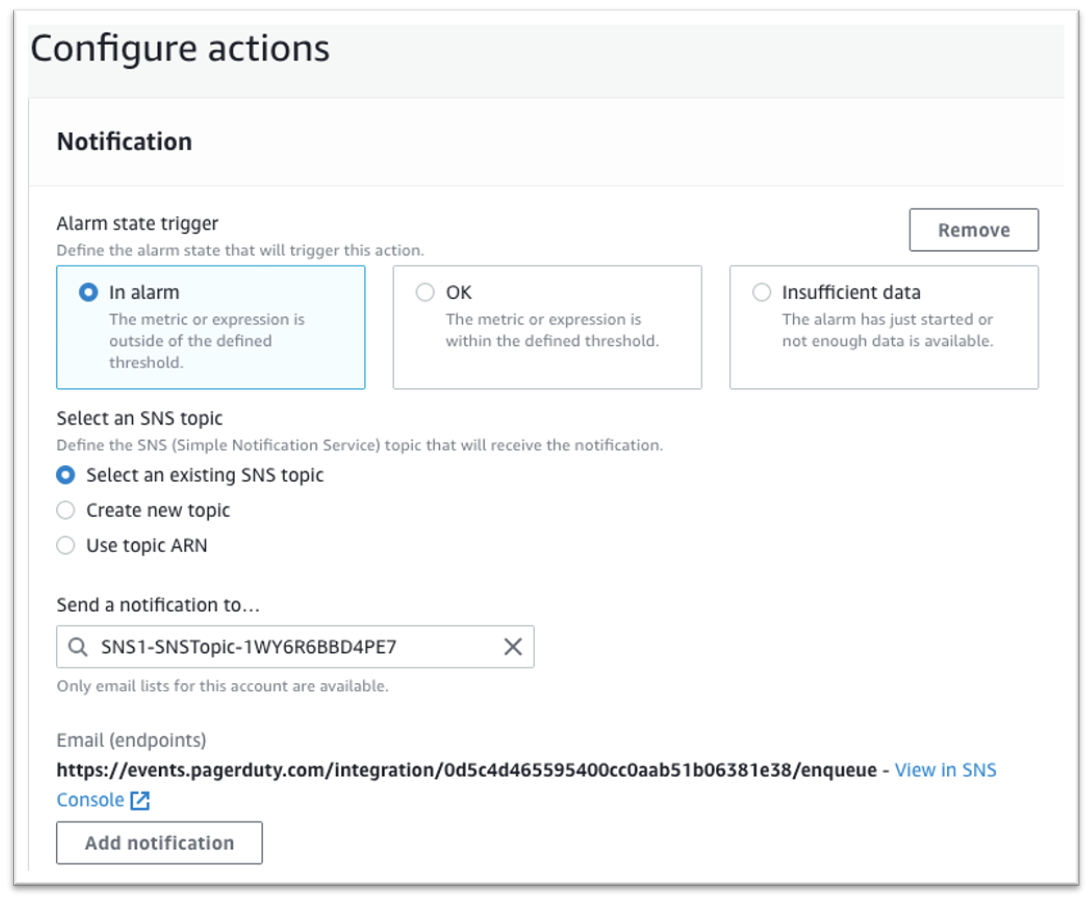
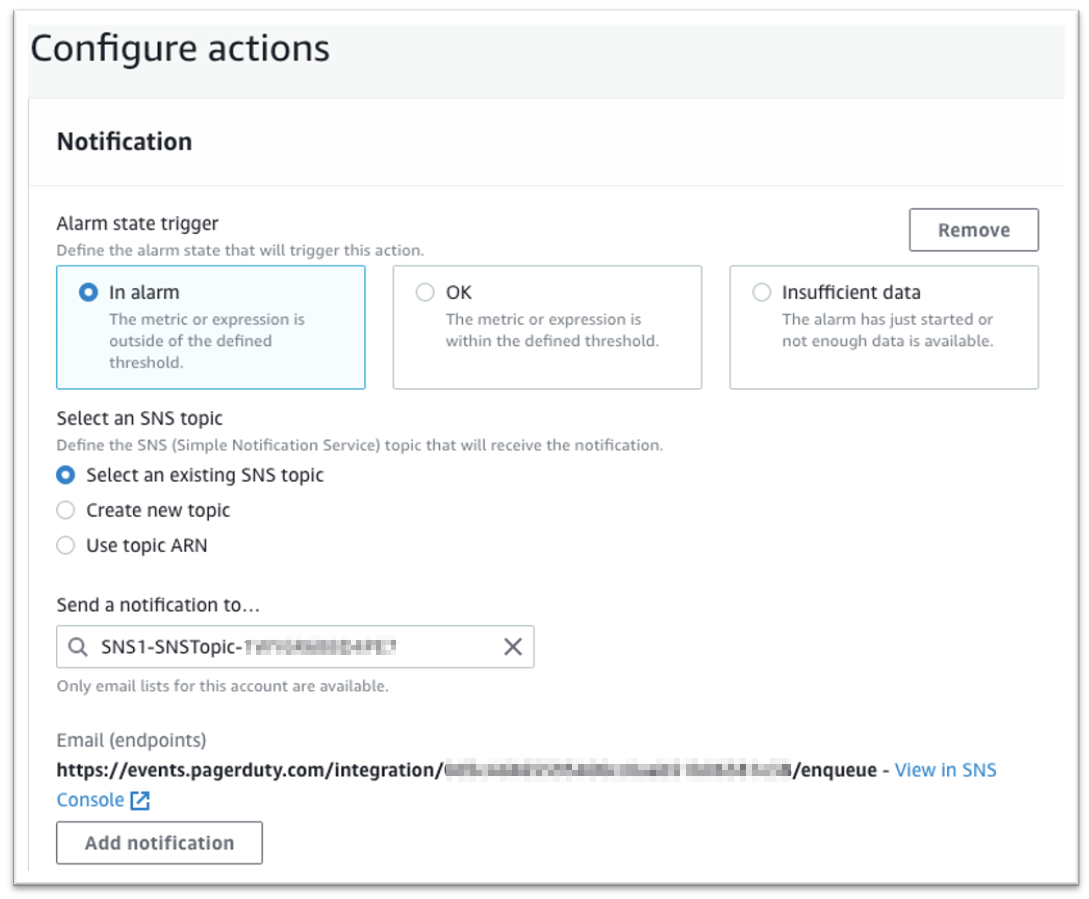
image protection, syntax fixes

Changed region(s): [[0.4059, 0.8409, 0.7181, 0.8721], [0.2185, 0.6852, 0.3747, 0.7475]]

diff --git a/content/04_eventbridgequickstart/page-3-cloudformation.md b/content/04_eventbridgequickstart/page-3-cloudformation.md
@@ -6,9 +6,41 @@ weight: 3
 
 ## Deploy the Integration
 
+### Parameters of the CloudFormation Template
+
 In your AWS Console, you will deploy the CloudFormation template provided.
 
-To do this, click [here](https://fwd.aws/k54Ky?).
+The template has a set of parameters you will need to fill in while creating the CloudFormation Stack.
+
+| Parameter | Description |
+| --- | ----------- |
+| Event&nbsp;source&nbsp;name | Name of the Amazon EventBridge PagerDuty event source to associate with an event bus. <br/> For example, `aws.partner/pagerduty.com/1234567890/test-event-source`. |
+| Create event bus | Select Yes when no Event Bus has been created yet. Select No if there is already an existing bus. |
+| PagerDuty API key | A valid REST API key in PagerDuty. |
+| PagerDuty&nbsp;user&nbsp;email | Email address of a valid PagerDuty user on whose behalf to run the Response Play |
+| P1 response play | Response play that is run on the creation of a P1 incident. See below. |
+| P2 response play | Response play that is run on the creation of a P2 incident. See below. |
+| Resolved&nbsp;response&nbsp;play | Response play that is run on the resolution of a P1 incident. See below. |
+
+### Perform pre-requisites
+
+To create a REST API key in PagerDuty, Use the instructions [here](https://support.pagerduty.com/docs/generating-api-keys#generating-a-general-access-rest-api-key). 
+
+To create a Response Play follow the steps [here](https://support.pagerduty.com/docs/response-automation#create-a-response-play).
+
+To find the id of a Response Play (required for this exercise), open the list of Response Plays.
+
+![](/images/rp_setup1.png)
+
+Now, find and edit the Response Play that you want to run when a P1 Incident is created. Select the id in the URL Address and copy it.
+
+![](/images/rp_setup2.png)
+
+Do the same for a P2 Response Play and a Resolved Response Play.
+
+### Build the CloudFormation Stack
+
+To begin building your CloudFormation Stack, click [here](https://fwd.aws/k54Ky?).
 
 The deployment takes about 5 minutes to complete. EventBridge integrations are supported in all AWS Regions except the AWS GovCloud (US) Regions.
 

diff --git a/content/04_eventbridgequickstart/page-1-why.md b/content/04_eventbridgequickstart/page-1-why.md
@@ -14,6 +14,16 @@ In this deployment, a software as a service (SaaS) event bus receives event noti
 
 ![](/images/quickstart_diagram.png)
 
+### Event flow
+
+For every Incident that is created on a service that has this EventBridge configuration set, it will send a webhook to EventBridge as an event. That event will have in it information about the State and Priority of the Incident. The Lambda code will check if the Incident being triggered or resolved (i.e. opened or closed).
+
+If it is triggered, it will check the Priority value. When it is a P1, it will execute one response play and if it is P2, the it will execute a different one. 
+
+In a similar way, if a P1 incident has been resolved, it will run the associated response play.
+
+All of this is automatic and no user intervention is required.
+
 {{% notice info %}}
 
 Complete instructions for use outside this Workshop are available [here](https://aws.amazon.com/quickstart/eventbridge/pagerduty-response-play/).

diff --git a/content/02_cloudwatchintegration/page-3-setnotification.md b/content/02_cloudwatchintegration/page-3-setnotification.md
@@ -10,7 +10,7 @@ For every event places on the topic, we want to push it to PagerDuty. A Subscrip
 
 ### Create a new SNS Subscription.
 
-On the same SNS Topic just created, scroll down to the bottom. The Subscriptions subtab should be selected. 
+On the __same SNS Topic just created__, scroll down to the bottom. The Subscriptions subtab should be selected. 
 
 Click the orange button "Create subscription".
 
@@ -34,7 +34,7 @@ Paste in the URL from PagerDuty.
 
 Verify that your subscription was created successfully.
 
-After a moment, refresh the Subscription page. Verify that your subscription status is not "Pending confirmation". 
+After a moment, refresh the Subscription page. Verify that your subscription status is __not__ "Pending confirmation". 
 ![](/images/subs4_pending.png)
 
 PagerDuty will automatically confirm the Subscription if your URL is correct.

diff --git a/content/04_eventbridgequickstart/page-5-test.md b/content/04_eventbridgequickstart/page-5-test.md
@@ -7,5 +7,5 @@ weight: 5
 ## Test
 
 - Create an Incident with Priority of P1
-- Check the Timeline and check to see that the Response play had run.
+- Check the Timeline and check to see that the Response play has run.
 
